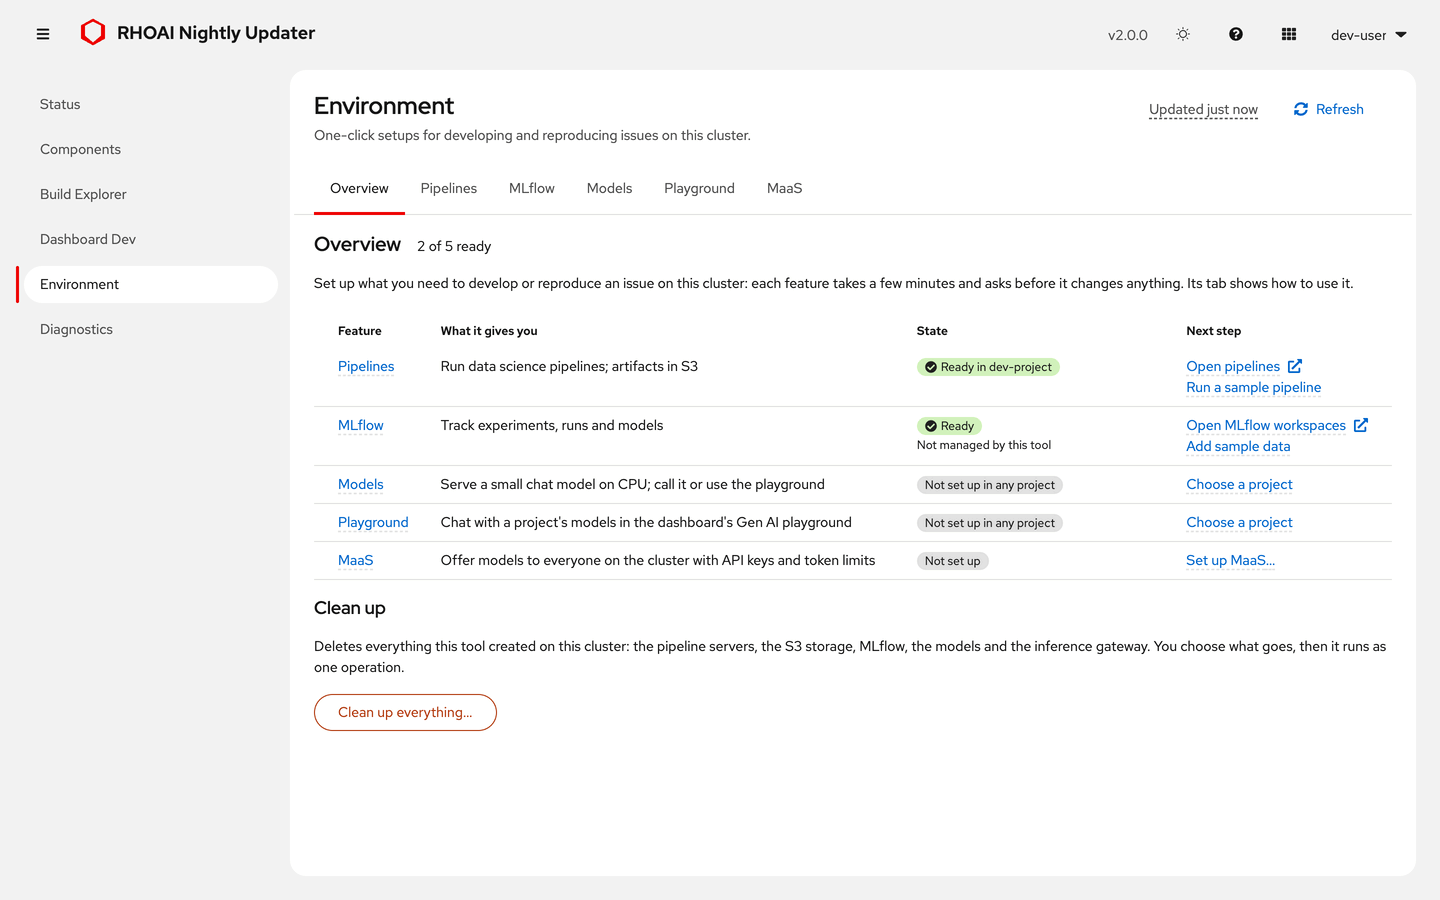
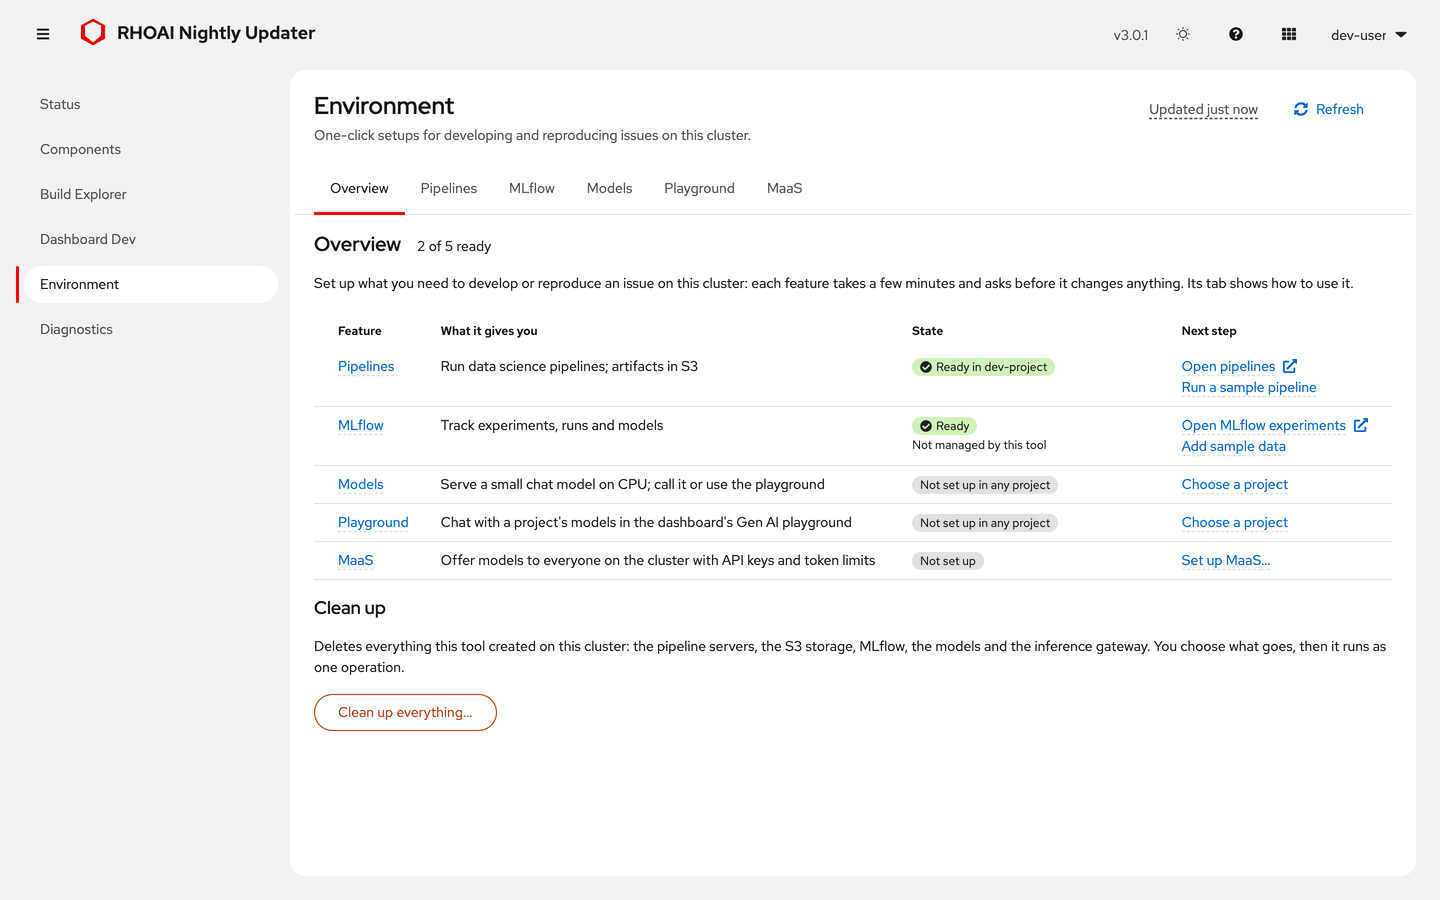
docs(images): refresh the stale Environment, version and pull-secret images
The mock reports v3.0.1 (masthead, Help), the Overview and MLflow crops
show Open MLflow experiments and the Overview's five features, the
self-managed setup shows the new prompt, and the Environment page images
the current Overview. Callout 1 of environment-mlflow sat on the Not
managed by this tool label: a new callout position, below the target,
puts it under the Ready label. The texts that describe these images say
the same.

diff --git a/docs/tools/capture.js b/docs/tools/capture.js
@@ -81,7 +81,8 @@ async (page) => {
 
   /**
    * Draws numbered callouts and highlight boxes over the page. notes:
-   * [{ at: locator, n?: number, box?: false, pos?: "tl"|"tr"|"l"|"r" }].
+   * [{ at: locator, n?: number, box?: false, pos?: "tl"|"tr"|"l"|"r"|"b" }].
+   * "b" sits just under the middle of the bottom edge, for a target with text on both sides.
    * Returns the rectangles drawn, so a crop can include them.
    */
   async function annotate(notes, name = "") {
@@ -110,6 +111,7 @@ async (page) => {
           const at = {
             tl: [x, y], tr: [x + w, y],
             l: [x - R - 6, y + h / 2], r: [x + w + R + 6, y + h / 2],
+            b: [x + w / 2, y + h + R - 2],
           }[pos];
           const c = document.createElement("div");
           c.textContent = String(n);
@@ -565,7 +567,7 @@ async (page) => {
       // appearance button moves into a menu, and the crop window (CW) is
       // narrower. A crop's text size does not depend on the window width.
       await open("/components", "healthy", { width: W });
-      await crop("masthead-version", head, { notes: [{ at: page.getByText("v2.0.0", { exact: true }), n: 1, pos: "l" }] });
+      await crop("masthead-version", head, { notes: [{ at: page.getByText("v3.0.1", { exact: true }), n: 1, pos: "l" }] });
       // Tall enough for the whole Help dialog, so its body does not scroll.
       await page.setViewportSize({ width: vw, height: 2600 });
       await page.getByRole("button", { name: /help/i }).first().click();
@@ -680,7 +682,8 @@ async (page) => {
       await open("/test-resources?tab=mlflow", "env-live");
       await crop("environment-mlflow", [panel().getByRole("heading", { name: "MLflow", level: 2 }), part("MLflow server")], {
         notes: [
-          { at: label(part("MLflow server"), "Ready"), n: 1, pos: "r" },
+          // Below: the title is on its left and the ownership label on its right.
+          { at: label(part("MLflow server"), "Ready"), n: 1, pos: "b" },
           { at: label(part("MLflow server"), "Not managed by this tool"), n: 2, pos: "r" },
         ],
         pad: 24,

diff --git a/docs/QUICKSTART.md b/docs/QUICKSTART.md
@@ -88,9 +88,9 @@ Open the printed URL, or use the grid icon in the OpenShift console (Red Hat App
 oc get route rhoai-nightly-updater -n rhoai-nightly-updater -o jsonpath='https://{.spec.host}{"\n"}'
 ```
 
-<img src="images/masthead-version.png" alt="The masthead: the release v2.0.0, the appearance button, Help, Applications and the user menu" width="380">
+<img src="images/masthead-version.png" alt="The masthead: the release v3.0.1, the appearance button, Help, Applications and the user menu" width="380">
 
-**What you should see:** the **Status** page. The masthead shows (1) the release you installed (`v2.0.0` in the picture), then the appearance button (color scheme and contrast), **Help** (`?`), the application menu and your user name. A fresh cluster shows **One-time cluster setup** first.
+**What you should see:** the **Status** page. The masthead shows (1) the release you installed (`v3.0.1` in the picture), then the appearance button (color scheme and contrast), **Help** (`?`), the application menu and your user name. A fresh cluster shows **One-time cluster setup** first.
 
 ## 3. One-time setup: pull secret and image mirror
 

diff --git a/README.md b/README.md
@@ -73,7 +73,7 @@ It deploys RHOAI Konflux builds (`odh-pr-<N>`, `odh-stable`) or ODH OpenShift CI
 
 One tab per feature after an **Overview**, kept in the address so a link opens the same view (`?tab=pipelines&project=<name>`, `?tab=mlflow`, `?tab=models&project=<name>`).
 
-<img src="docs/images/environment-overview.png" alt="Overview: 2 of 3 ready; Pipelines Ready in dev-project with Open pipelines; MLflow Ready, Not managed by this tool under the label, with Open MLflow experiments; Models Not set up in any project, with Choose a project" width="760">
+<img src="docs/images/environment-overview.png" alt="Overview: 2 of 5 ready; Pipelines Ready in dev-project with Open pipelines and Run a sample pipeline; MLflow Ready, Not managed by this tool under the label, with Open MLflow experiments and Add sample data; Models and Playground Not set up in any project, with Choose a project; MaaS Not set up, with Set up MaaS" width="760">
 
 1. How many features are ready.
 2. Each feature links to its tab (a project-scoped one with its project).

diff --git a/docs/UPGRADING.md b/docs/UPGRADING.md
@@ -95,12 +95,12 @@ flowchart TD
 
 ### In the app
 
-<img src="images/masthead-version.png" alt="The masthead shows the release v2.0.0" width="380">
+<img src="images/masthead-version.png" alt="The masthead shows the release v3.0.1" width="380">
 
-1. The masthead shows the running release, for example `v2.0.0`. Builds of
+1. The masthead shows the running release, for example `v3.0.1`. Builds of
    `main` or of a commit show no version here.
 
-<img src="images/help-about.png" alt="The Help dialog, About this installation: Updater build v2.0.0 with its commit and build date" width="760">
+<img src="images/help-about.png" alt="The Help dialog, About this installation: Updater build v3.0.1 with its commit and build date" width="760">
 
 1. **Help** (`?`) → **About this installation** → **Updater build**: the
    release, its commit and its build date.
